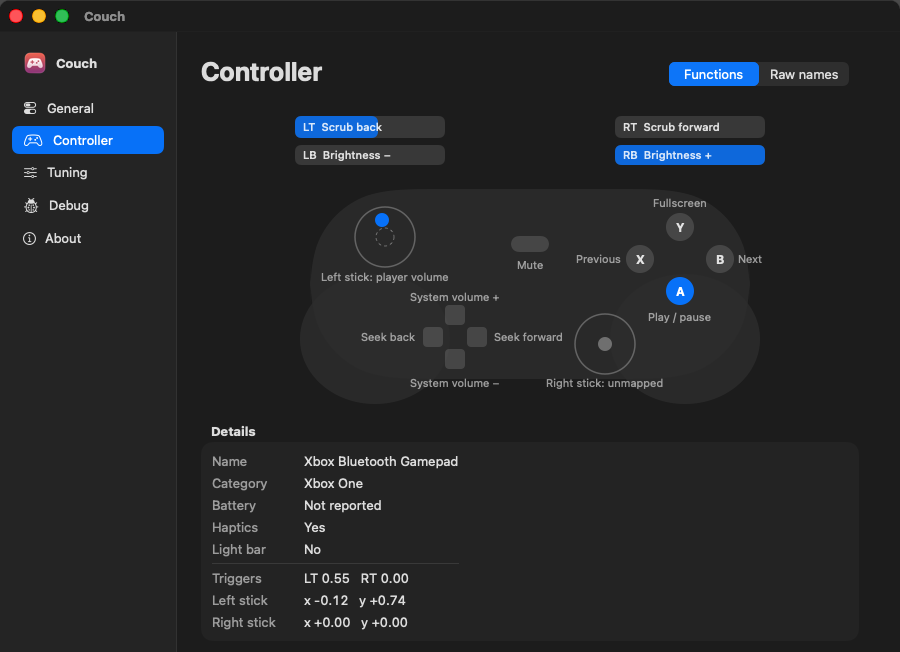
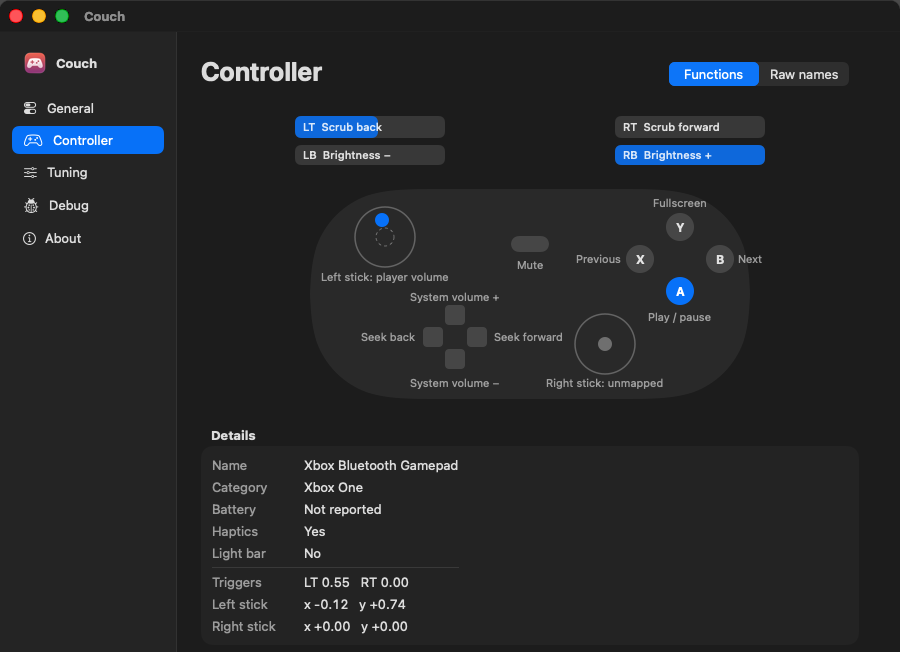
Controller tab: single body shape, drop the grip ellipses

Changed region(s): [[0.3422, 0.7055, 0.5289, 0.9816], [0.2178, 0.7055, 0.3111, 0.9816], [0.2178, 0.6442, 0.28, 0.6748]]

diff --git a/Sources/Couch/UI/ControllerView.swift b/Sources/Couch/UI/ControllerView.swift
@@ -116,16 +116,14 @@ struct ControllerDiagram: View {
             caption(functions ? "Right stick: unmapped" : "Right stick",
                     x: 395, y: 274, width: 150)
         }
-        .frame(width: 640, height: 296)
+        .frame(width: 640, height: 300)
     }
 
     // MARK: Pieces
 
     private var silhouette: some View {
         ZStack {
-            Ellipse().frame(width: 150, height: 130).position(x: 165, y: 230)
-            Ellipse().frame(width: 150, height: 130).position(x: 475, y: 230)
-            RoundedRectangle(cornerRadius: 90).frame(width: 440, height: 190).position(x: 320, y: 175)
+            RoundedRectangle(cornerRadius: 90).frame(width: 440, height: 210).position(x: 320, y: 185)
         }
         .foregroundStyle(.primary)
         .compositingGroup()
